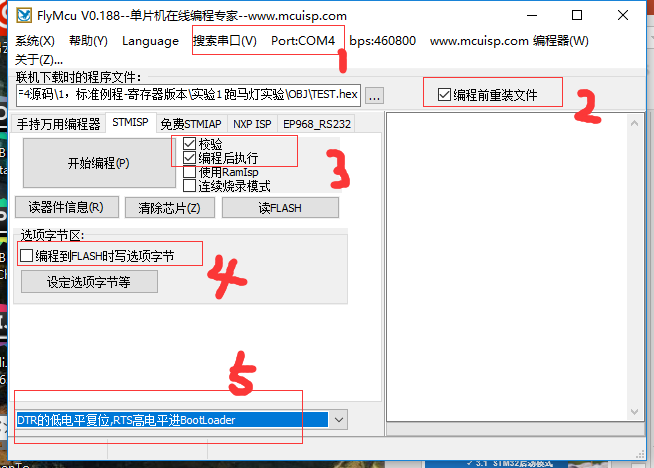
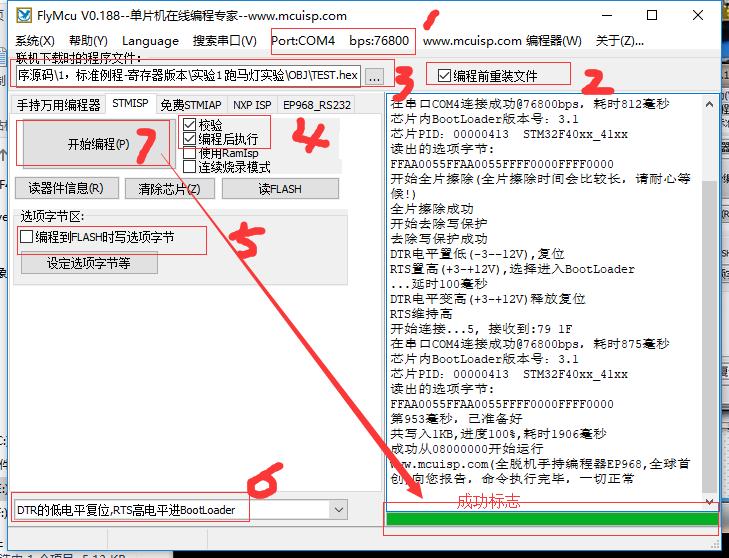
update

diff --git a/3.嵌入式/3.STM32-M4/2.STM32-M4之学习/1-STM32-M4之ISP串口下载.md b/3.嵌入式/3.STM32-M4/2.STM32-M4之学习/1-STM32-M4之ISP串口下载.md
@@ -1,7 +1,7 @@
 总操作流程：
 - 1、[硬件连接](#STM-M4-01)
 - 2、[下载安装工具：mcuisp(FlyMcu)](#STM-M4-02)
-- 3、[配置工具](#STM-M4-03)
+- 3、[测试](#STM-M4-03)
 
 ***
 
@@ -14,7 +14,9 @@
 
 [![](https://img.shields.io/badge/FlyMcu-V0.188-green.svg "FlyMcu V0.188")](https://pan.baidu.com/s/1le9J5E829qmdH0m85zzaww)
 
-# <a name="STM-M4-03" href="#" >配置工具</a>
+# <a name="STM-M4-03" href="#" >测试</a>
+[![](https://img.shields.io/badge/跑马灯-TEST.hex-green.svg "跑马灯 TEST.hex")](https://pan.baidu.com/s/1Rrob-4MmzkDYXzWgmKsI-w)
+
 ![](image/1-2.png)
 
-`点击读器件信息按钮看效果`
+`程序下载成功后开发板绿灯一直闪闪发亮`
